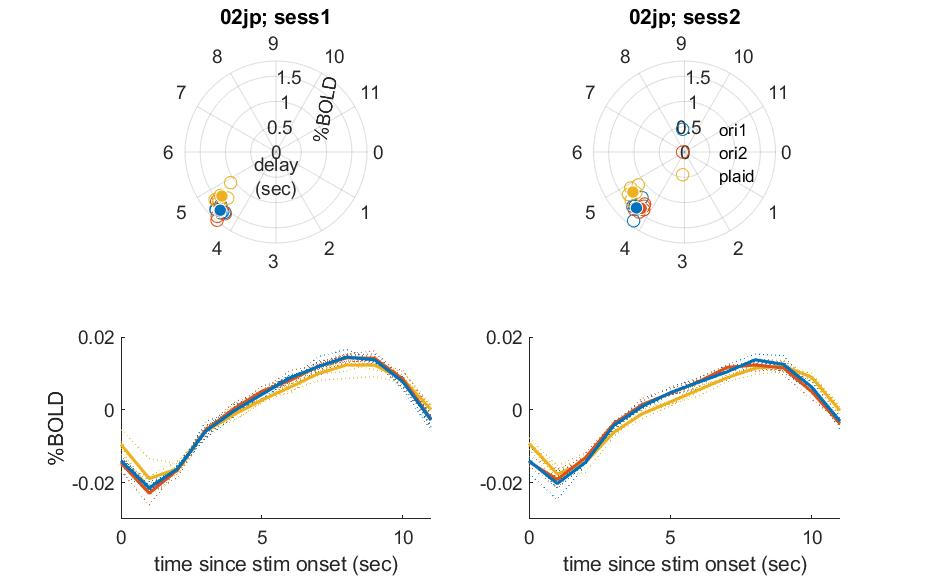
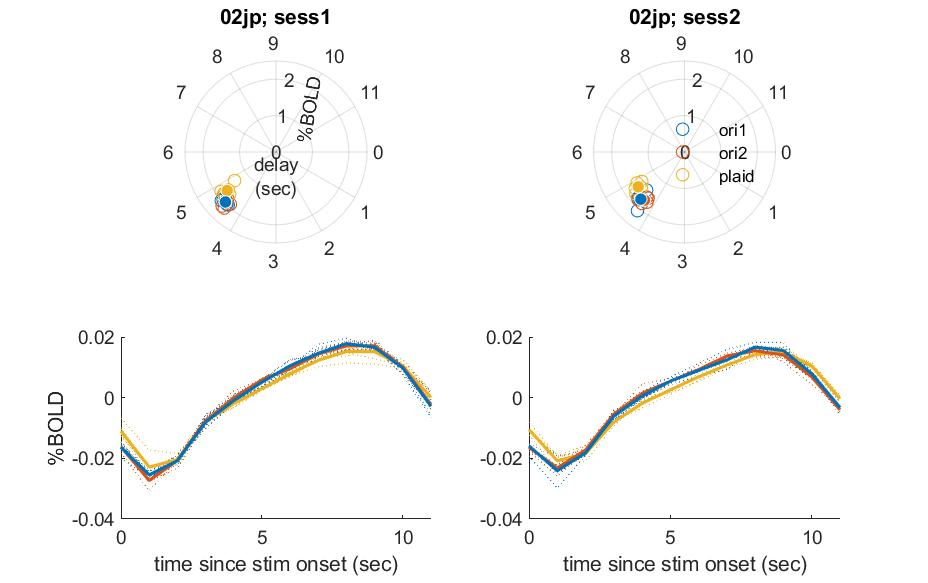
Update Fig
fitType = 'mixed';
threshType = 'p';
threshVal = 0.05;
source = 'reducedModelResid';
percentile = 20;

diff --git a/neuroimaging/HRdelay.m b/neuroimaging/HRdelay.m
@@ -6,7 +6,7 @@ verbose = 0; % prints more info
 %% Between-session feature selection parameters
 % Activated voxels
 featSel_bSess.activation.doIt = 1;
-featSel_bSess.activation.fitType = 'fixed';
+featSel_bSess.activation.fitType = 'mixed';
 featSel_bSess.activation.threshType = 'p';
 featSel_bSess.activation.threshVal = 0.05;
 % Vein voxels

diff --git a/neuroimaging/runAllDecoding.m b/neuroimaging/runAllDecoding.m
@@ -29,7 +29,8 @@ disp('cart VS cartReal:')
 disp(['signed rank = ' num2str(STATS.signedrank)])
 disp(['one-sided p = ' num2str(P)])
 
-% plotDecoding_acc(res,figOption,verbose)
+plotDecoding_acc(res,figOption,verbose)
+return
 
 %% Permutation tests
 nPerm = 2^14; % will not run if already run, and instead just load previous results
